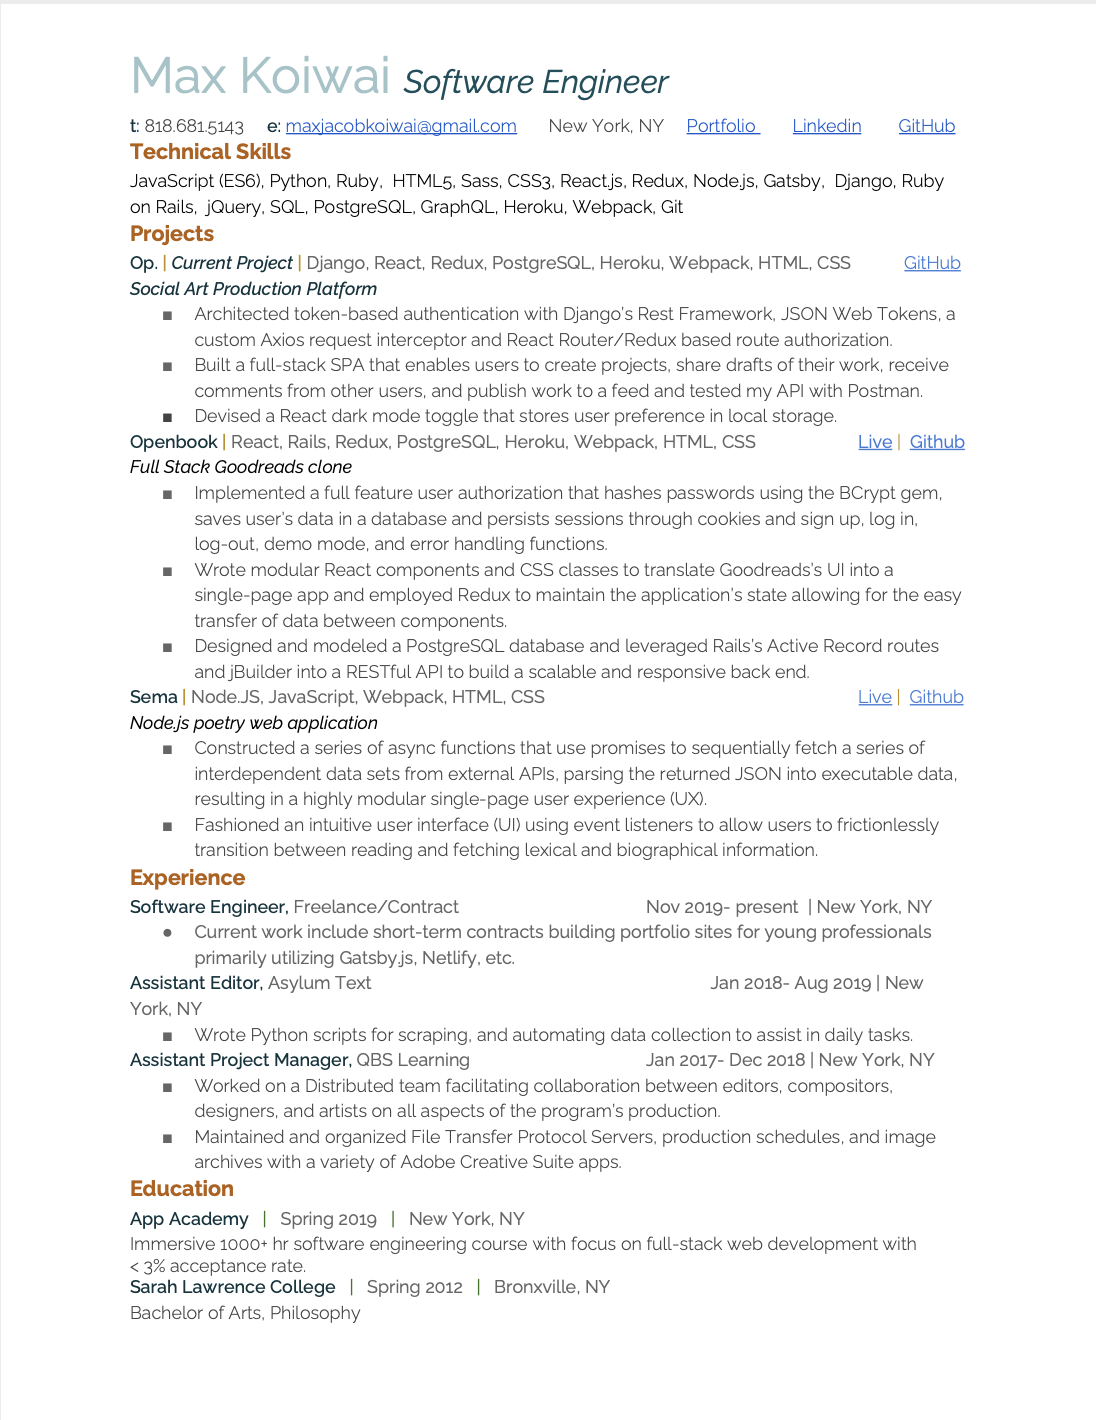
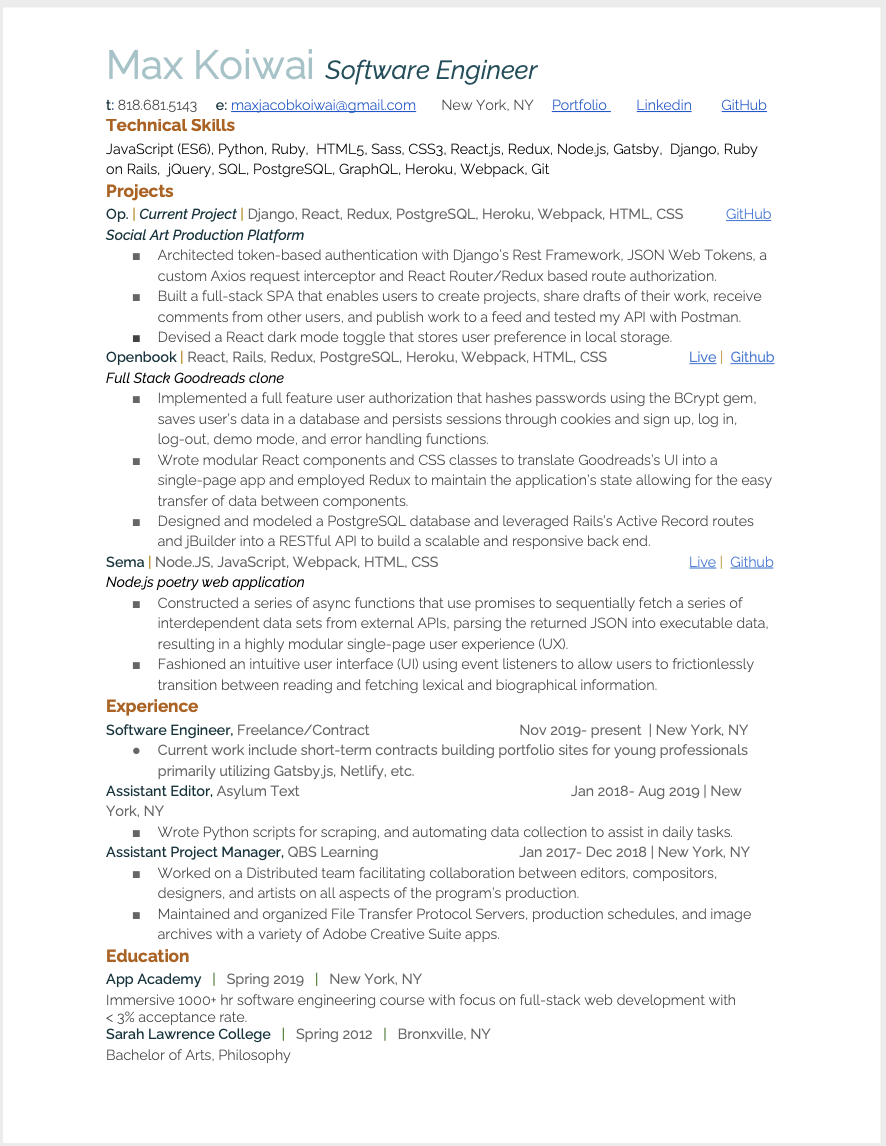
debugging

Changed region(s): [[0.1219, 0.0305, 0.8837, 0.9468]]

diff --git a/src/styles/global.css b/src/styles/global.css
@@ -15,14 +15,16 @@ body{
     height: 100%;
     position: relative;
     overflow: hidden;
+    
 }
 .grad{
     height: 100%;
     margin: 0;
     background: #313131;
     /* height: 98vh; */
-    border: .75em solid #f5f5f5;
+    border: .75em solid #ebedec;
     position: absolute;
+    width: 100%;
 }
 .flex{
     display: flex;

diff --git a/src/pages/resume.module.css b/src/pages/resume.module.css
@@ -22,7 +22,7 @@
   left: 0;
   right: 0;
   transition: .5s ease;
-  background-color: #5d53b5;
+  background-color: #00ff5ec1;
   margin:auto;
 }
 .thumb{
